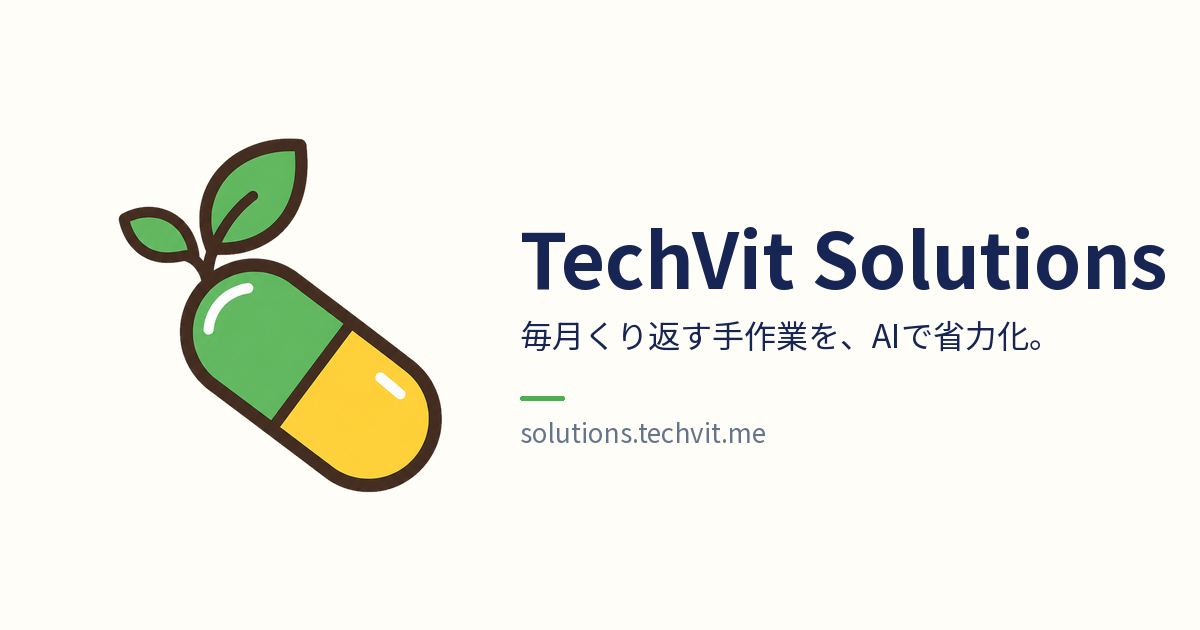
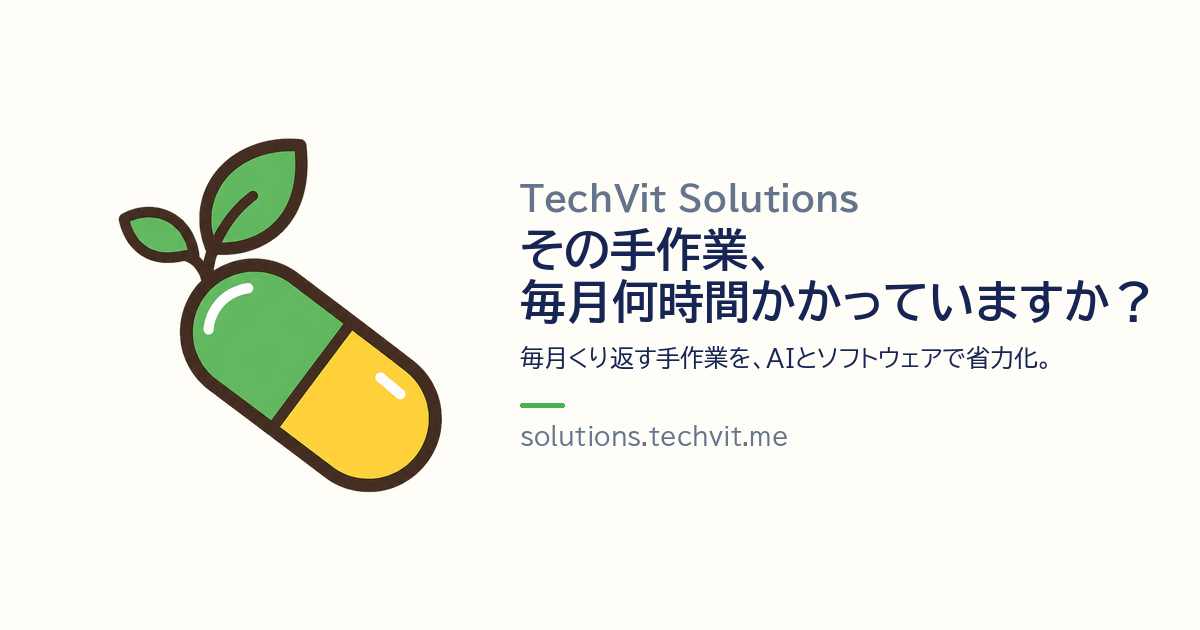
Put the brand mark on sales PDF cover and footer, refine OG copy
Bring in the sales-material PDFs from main (PR #6) and draw the capsule
mark next to the company name on each PDF cover and page footer, using
the same icon-192.png the site uses. Pass the image by path so pdfkit
embeds it once per document instead of once per page.

Rework the OG image copy to the site's own headline: 'その手作業、
毎月何時間かかっていますか？' with the one-line summary below it.

Claude-Session: https://claude.ai/code/session_01XNxGZgACqsvC2TEtBoy5pL

Changed region(s): [[0.4317, 0.2714, 0.9867, 0.7238]]

diff --git a/src/lib/pdf/doc.ts b/src/lib/pdf/doc.ts
@@ -1,5 +1,6 @@
 import PDFDocument from "pdfkit";
 import { SITE_NAME, SITE_URL } from "@/lib/site";
+import { BRAND_MARK_PATH } from "./brand";
 import { loadFonts } from "./fonts";
 
 export const A4 = { width: 595.28, height: 841.89 } as const;
@@ -82,6 +83,15 @@ export class Brochure {
     });
     this.doc = doc;
     this.version = version;
+  }
+
+  /** ブランドマーク（カプセル＋葉）と社名を横並びで描く。size はマークの一辺 */
+  private logo(x: number, y: number, size: number, color: string): void {
+    this.doc.image(BRAND_MARK_PATH, x, y, { width: size, height: size });
+    this.setFont(true, size * 0.42, color);
+    this.doc.text(SITE_NAME, x + size + size * 0.28, y + size * 0.28, {
+      lineBreak: false,
+    });
   }
 
   // ---- 位置 -------------------------------------------------------------
@@ -398,10 +408,9 @@ export class Brochure {
     doc.rect(0, 0, A4.width, bandH).fill(C.brand950);
     doc.rect(0, bandH, A4.width, 5).fill(C.accent500);
 
-    this.setFont(true, 10, C.white);
-    doc.text(SITE_NAME, this.x, 48, { width: CONTENT_WIDTH, align: "right" });
+    this.logo(this.x, 40, 30, C.white);
 
-    let y = 96;
+    let y = 104;
     this.setFont(true, 10, C.brand300);
     doc.text(opts.eyebrow, this.x, y, {
       width: CONTENT_WIDTH - 120,
@@ -515,9 +524,10 @@ export class Brochure {
         .lineTo(this.x + CONTENT_WIDTH, y - 8)
         .lineWidth(0.5)
         .stroke(C.slate200);
+      doc.image(BRAND_MARK_PATH, this.x, y - 2, { width: 12, height: 12 });
       this.setFont(false, 7.5, C.slate500);
-      doc.text(`${SITE_NAME}｜${SITE_URL}｜${this.version}`, this.x, y, {
-        width: CONTENT_WIDTH - 60,
+      doc.text(`${SITE_NAME}｜${SITE_URL}｜${this.version}`, this.x + 16, y, {
+        width: CONTENT_WIDTH - 76,
         lineBreak: false,
       });
       doc.text(`${i + 1} / ${range.count}`, this.x + CONTENT_WIDTH - 60, y, {

diff --git a/src/lib/pdf/brand.ts b/src/lib/pdf/brand.ts
@@ -1,0 +1,13 @@
+import path from "node:path";
+
+/**
+ * PDF の表紙・フッターに入れるブランドマーク（カプセル＋葉）。
+ * サイトの favicon・OG 画像と同じ素材の 192px 版（public/icon-192.png）を使う。
+ * 表紙の 30pt に対して 400dpi 相当あれば印刷にも十分で、512px 版より PDF が数百 KB 軽くなる。
+ * pdfkit にはパス文字列で渡す。Buffer で渡すと呼び出しごとに画像を埋め込み直すが、
+ * パスなら同じ画像を 1 回だけ埋め込んで各ページから参照する。
+ */
+export const BRAND_MARK_PATH = path.resolve(
+  process.cwd(),
+  "public/icon-192.png",
+);

diff --git a/README.md b/README.md
@@ -77,6 +77,7 @@ src/
 - `src/pages/downloads/*.pdf.ts` の静的エンドポイントが `pnpm build` 時に pdfkit で生成する。Web と同じ Content Collections / `plans.ts` を読むので、MDX や料金を直せば PDF も同時に変わる（別途 PDF を作り直さない）
 - 部品（見出し・箇条書き・表・表紙・フッター）は `src/lib/pdf/doc.ts`、資料間で共通の表（料金・業務・モデルケース）は `src/lib/pdf/blocks.ts`
 - 表紙とフッターに「YYYY年M月版」（ビルド時点）を入れている。渡した資料と Web の料金がずれたときの目印
+- 表紙とフッターのブランドマークは `public/icon-192.png`（サイトのヘッダー・favicon・OG 画像と同じ素材）を `src/lib/pdf/brand.ts` から参照する
 - ダウンロード導線: `/downloads/`（一覧）、サービス各ページのヒーローと末尾、サービス一覧のヒーロー、トップのサービス欄、フッター。`DownloadPdf.astro` を使う
 - PDF は sitemap に含めない（`/downloads/` の一覧ページだけ載る）
 - 英語版 PDF は未対応（Phase 2）
